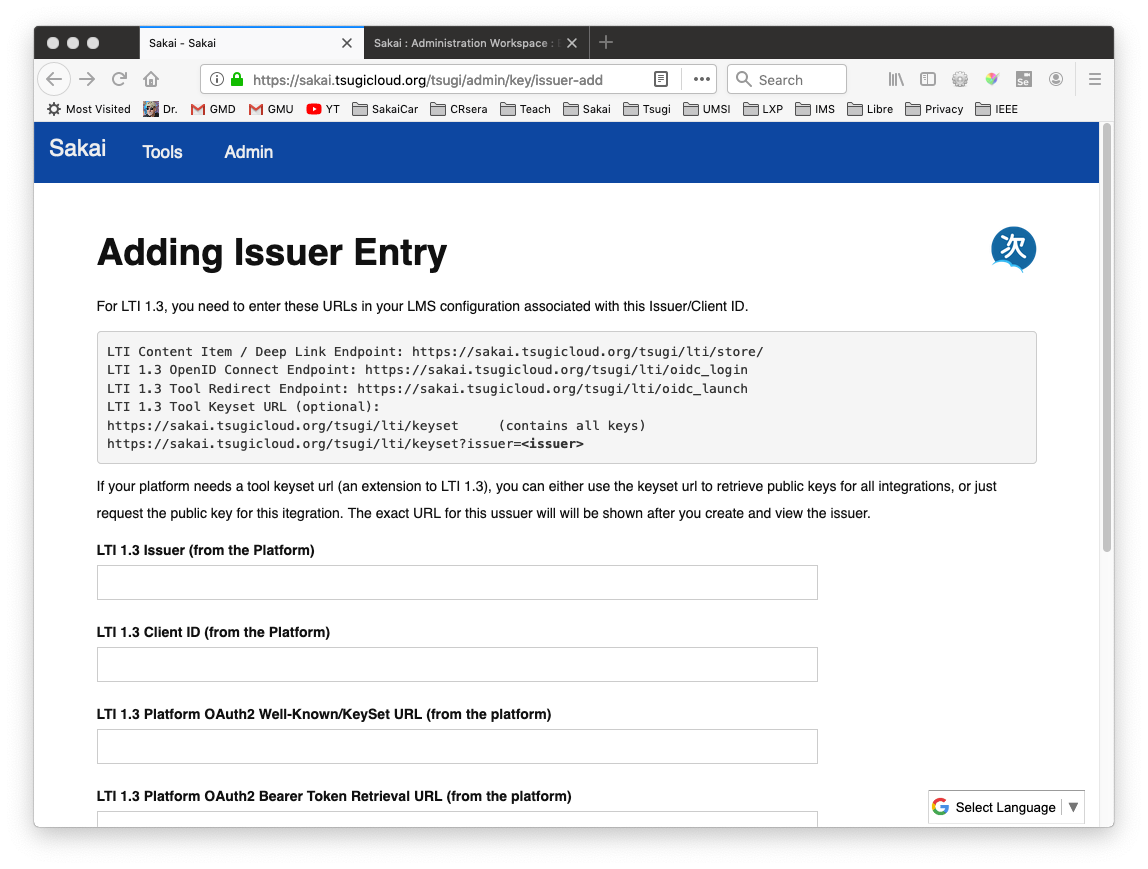
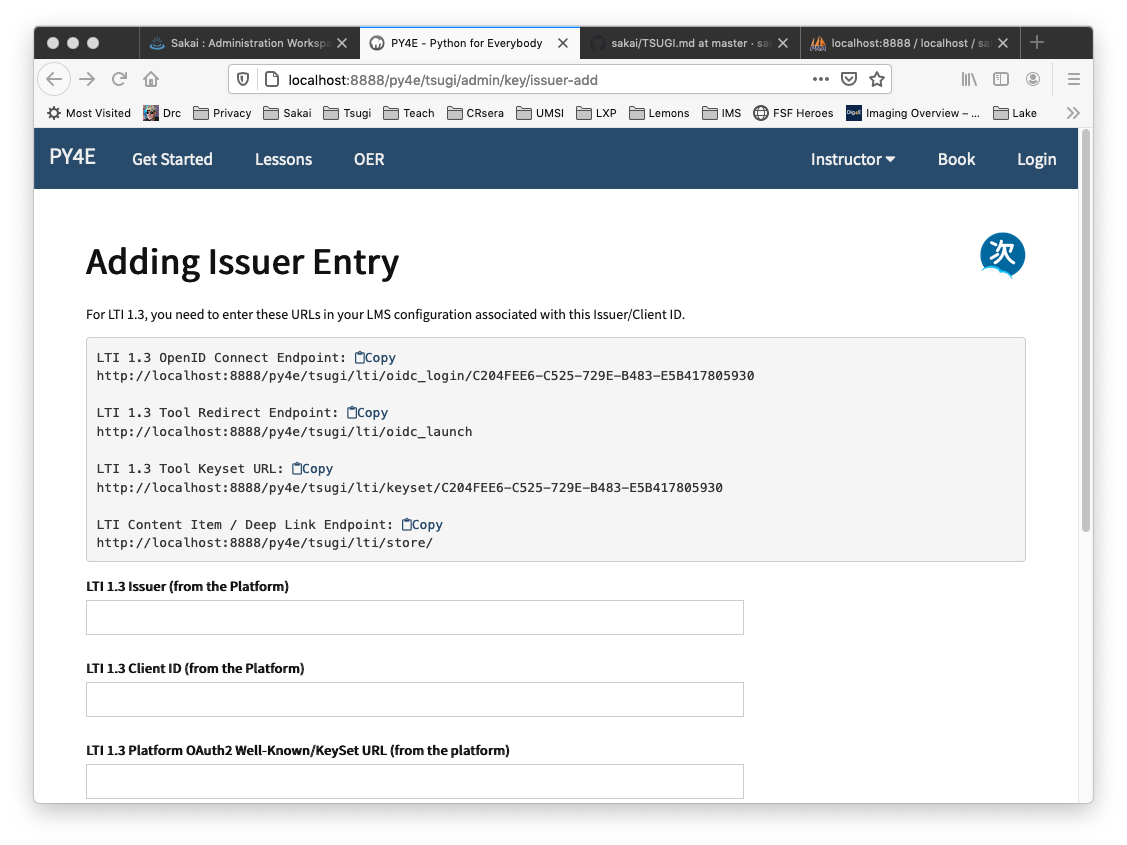
NOJIRA csev-2020-08-11 - Update documentation

diff --git a/basiclti/docs/TSUGI.md b/basiclti/docs/TSUGI.md
@@ -43,46 +43,74 @@ you can view the issuer.  Or you could delete and re-add the issuer just to make
 In the Add/Edit page, Tsugi will convienently show you the URLs and information you need to
 copy to Sakai.  The names of the variables are pretty similar between Sakai and Tsugi.
 
-    LTI Content Item / Deep Link Endpoint: https://sakai.tsugicloud.org/tsugi/lti/store/
-    LTI 1.3 OpenID Connect Endpoint: https://sakai.tsugicloud.org/tsugi/lti/oidc_login
-    LTI 1.3 Tool Redirect Endpoint: https://sakai.tsugicloud.org/tsugi/lti/oidc_launch
-    LTI 1.3 Tool Keyset URL (optional):
-    https://sakai.tsugicloud.org/tsugi/lti/keyset     (contains all keys)
-    https://sakai.tsugicloud.org/tsugi/lti/keyset?issuer=<issuer>
+    LTI 1.3 OpenID Connect Endpoint:
+    http://localhost:8888/py4e/tsugi/lti/oidc_login/04696848-C819-A74C-E694-6166C14A248E 
 
-Do not save this item *yet* - will nedd some data from Sakai before we save this.
+    LTI 1.3 Tool Redirect Endpoint:
+    http://localhost:8888/py4e/tsugi/lti/oidc_launch 
+
+    LTI 1.3 Tool Keyset URL:
+    http://localhost:8888/py4e/tsugi/lti/keyset/04696848-C819-A74C-E694-6166C14A248E 
+
+    LTI Content Item / Deep Link Endpoint:
+    http://localhost:8888/py4e/tsugi/lti/store/ 
+
+The values with the GUIDs can be pasted into Sakai but the URLs won't work until you
+actually save the entry in Tsugi - but you need to save the item in Sakai first to get
+values that you need to paste into Tsugi before saving this item.
+
+So once you see these values at the top of the screen, leave all the fill-in fields
+blank, and switch to Sakai in a new tab.
 
 Setting up the security contract in Sakai
 -----------------------------------------
 
 Go in Sakai, go to Admin -> Admin Workspace -> External Tools -> Install LTI 1.x Tool
-with the following values (watch for extra spaces while pasting and slashes matter):
+with the following values (watch for extra spaces while pasting and slashes matter - 
+you can use the Copy features in Tsugi to simplify things):
 
     Choose a title like "sakai.tsugicloud.org Advantage"
     Check: Allow tool title to be changed
     Use "LTI Content Item / Deep Link Endpoint" from Tsugi as Launch URL in Sakai
     Check: Allow launch URL to be changed
-    Set the key to something *other than* 12345 - like 8675309
+    Set the key to something *other than* 12345 - just pick a number
     Set the secret to be 'secret'
     Check: Send Names, Send Email, All services
     Un-Check: Allow the tool to be launched as a link
-    Check: Allow tool to configure and Allow use in rich text editor
-    Don't check any other placements
+    Check: The tool can receive a Content-Item or Deep-Link launch
+    Check: Allow the tool to selected from Lessons
+    Check: Allow the tool to be one of the assessment types
+    Check: Allow the tool to be used from the rich text editor
+    Don't check "common cartridge" or "provide a file"
     Check: Always launch in debug mode
-    Check: Supports LTI 1.3
+    Check: Tool supports LTI 1.3
+    Paste in the LTI 1.3 Tool Keyset URL from Tsugi
     Paste in the LTI 1.3 OpenID Connect Endpoint from Tsugi
     Paste in the LTI 1.3 Tool Redirect Endpoint from Tsugi
-    Paste in the LTI 1.3 Tool Keyset URL (use the one without the issues parameter)
-    Launch type - Inherit
+    Launch type - Inherit System-Wide Default
 
-Press `Save` to create the Sakai end of the Tool security contract.  Then in Sakai
-view the entry you just created and keep it in a tab in your browser.
-(<a href="IMG_TSUGI/02-Sakai-View-Tool.png" target="_blank">Image</a>)
+Press `Save` to create the Sakai end of the Tool security contract. Sakai routes you
+to a special screen 
+(<a href="IMG_TSUGI/02-Post-Add.png" target="_blank">Image</a>)
+that provides you a simplified view of the values you need to copy
+back into Tsugi.
+
+    LTI 1.3 Platform Issuer (provide to tool)
+    LTI 1.3 Client Id (provide to tool)
+    LTI 1.3 Deployment Id (provide to tool)
+    LTI 1.3 Platform OAuth2 Well-Known/KeySet URL
+    LTI 1.3 Platform OAuth2 Bearer Token Retrieval URL (provide to tool)
+    LTI 1.3 Platform OIDC Authentication URL (provide to tool)
+
+If you miss these values on this special "post add" screen, you can see
+all the values by viewing the entry in Sakai
+(<a href="IMG_TSUGI/03-Sakai-View-Tool.png" target="_blank">Image</a>).
 
 Completing the security contract in Tsugi
 -----------------------------------------
 
-Go back to the "Add Issuer" screen in Tsugi (hopefully still there in a tab)
+Go back to the "Add Issuer" screen in Tsugi in a new tab.  If you lots the tab,
+the Tsugi urls will change so you need to actually start over.  Go to the tab
 and copy values from the Sakai tool view back into Tsugi:
 
     LTI 1.3 Issuer for this Platform
@@ -90,21 +118,23 @@ and copy values from the Sakai tool view back into Tsugi:
     Client ID
     LTI 1.3 Platform OAuth2 Well-Known/KeySet URL
     LTI 1.3 Platform OAuth2 Bearer Token Retrieval URL
-    Leave LTI 1.3 Platform OAuth2 Bearer Token Audience Value blank
     LTI 1.3 Platform OIDC Authentication URL
-    Leave the Tool Public Key blank - this is legacy now
-    Leave the Tool Private Key blank - this is legacy now
+    Leave LTI 1.3 Platform OAuth2 Bearer Token Audience Value blank
+
+Note that the `deployment_id` is not used on this screen - save it for the next step.
 
 Add the Tool in Tsugi.
-(<a href="IMG_TSUGI/03-Tsugi-Issuer-Added.png" target="_blank">Image</a>)
+
+Creating a Tenant / Deployment in Tsugi
+---------------------------------------
 
 Then we need to add a Tenant in Tsugi.  In the `Manage Keys` area of Tsugi
 admin, select `Tenant Keys` and `Insert New Key`.  Fill in the data:
 
-    LTI 1.1: OAuth Consumer Key (i.e. not 12345 - like 8675309)
+    LTI 1.1: OAuth Consumer Key (i.e. not 12345 - pick a random number - these need to be unique within Tsugi)
     LTI 1.1: OAuth Consumer Secret  (should be 'secret')
-    LTI 1.3: Deployment ID - set to 1
-    Pick your issuer from the drop down.
+    LTI 1.3: Deployment ID - set to 1 (the value from Sakai)
+    Pick your issuer/client-id from the drop down.
     Leave the Caliper fields blank
     Set the User Id to 1
 
